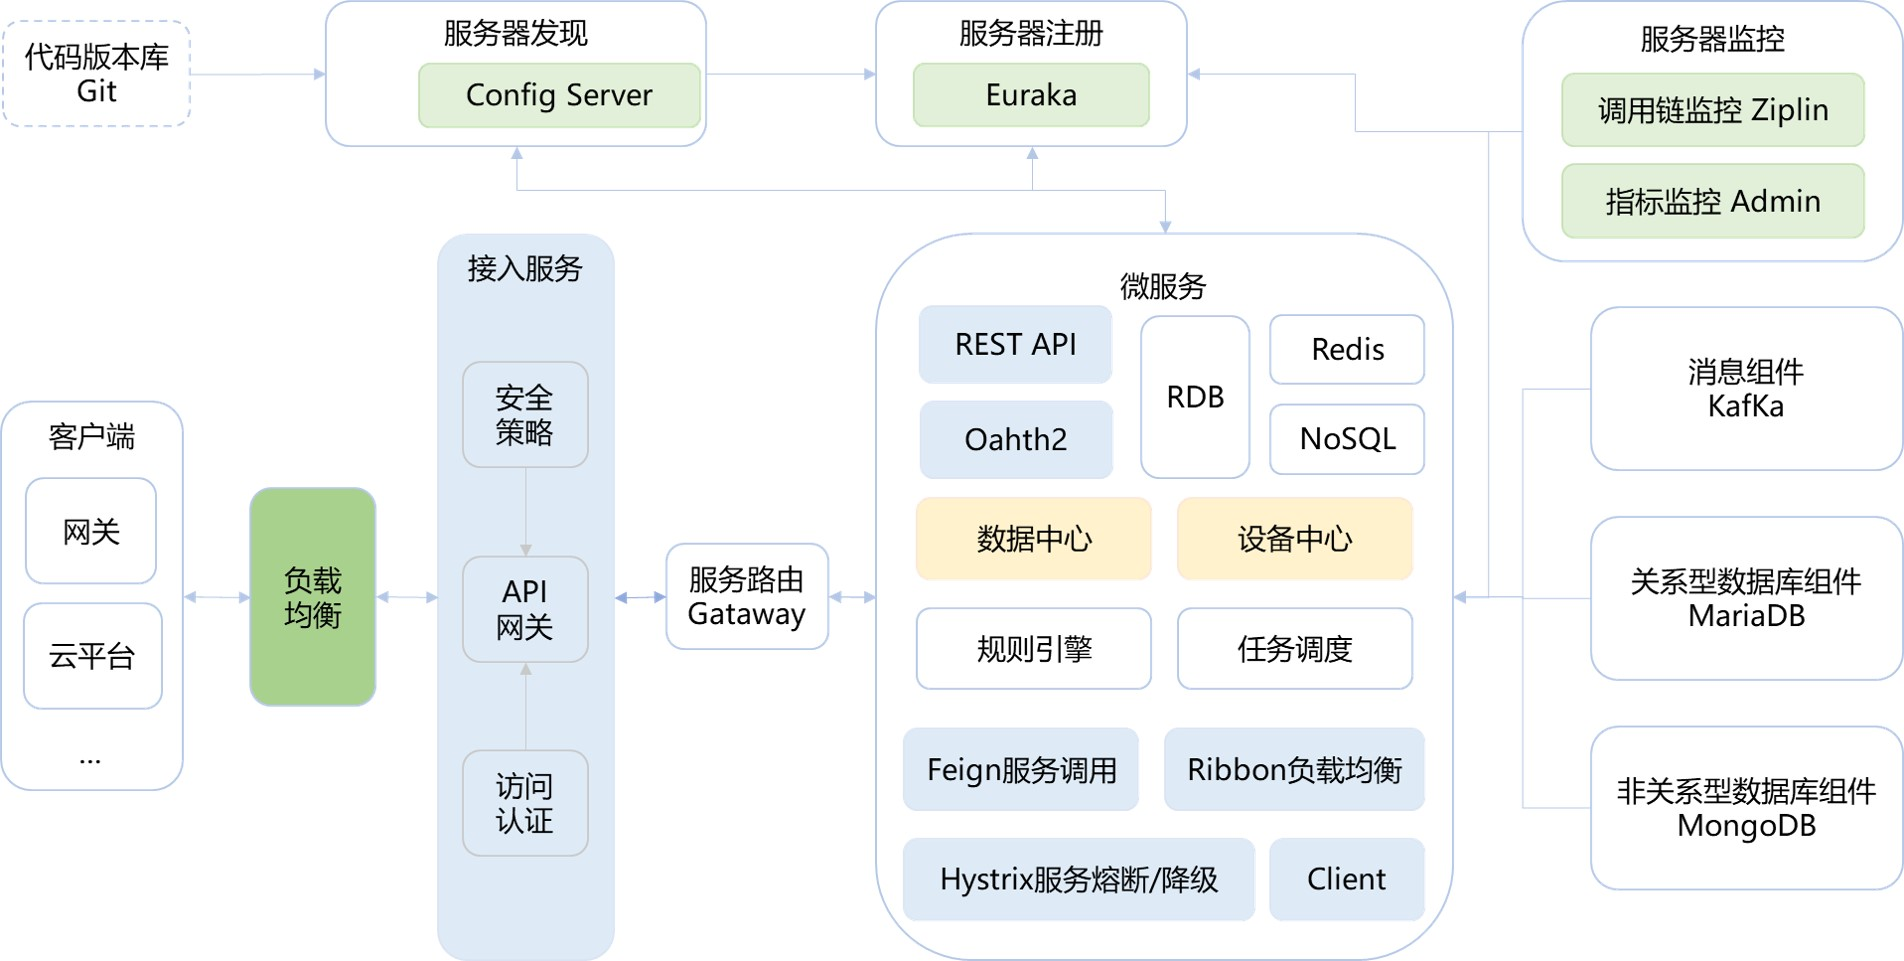
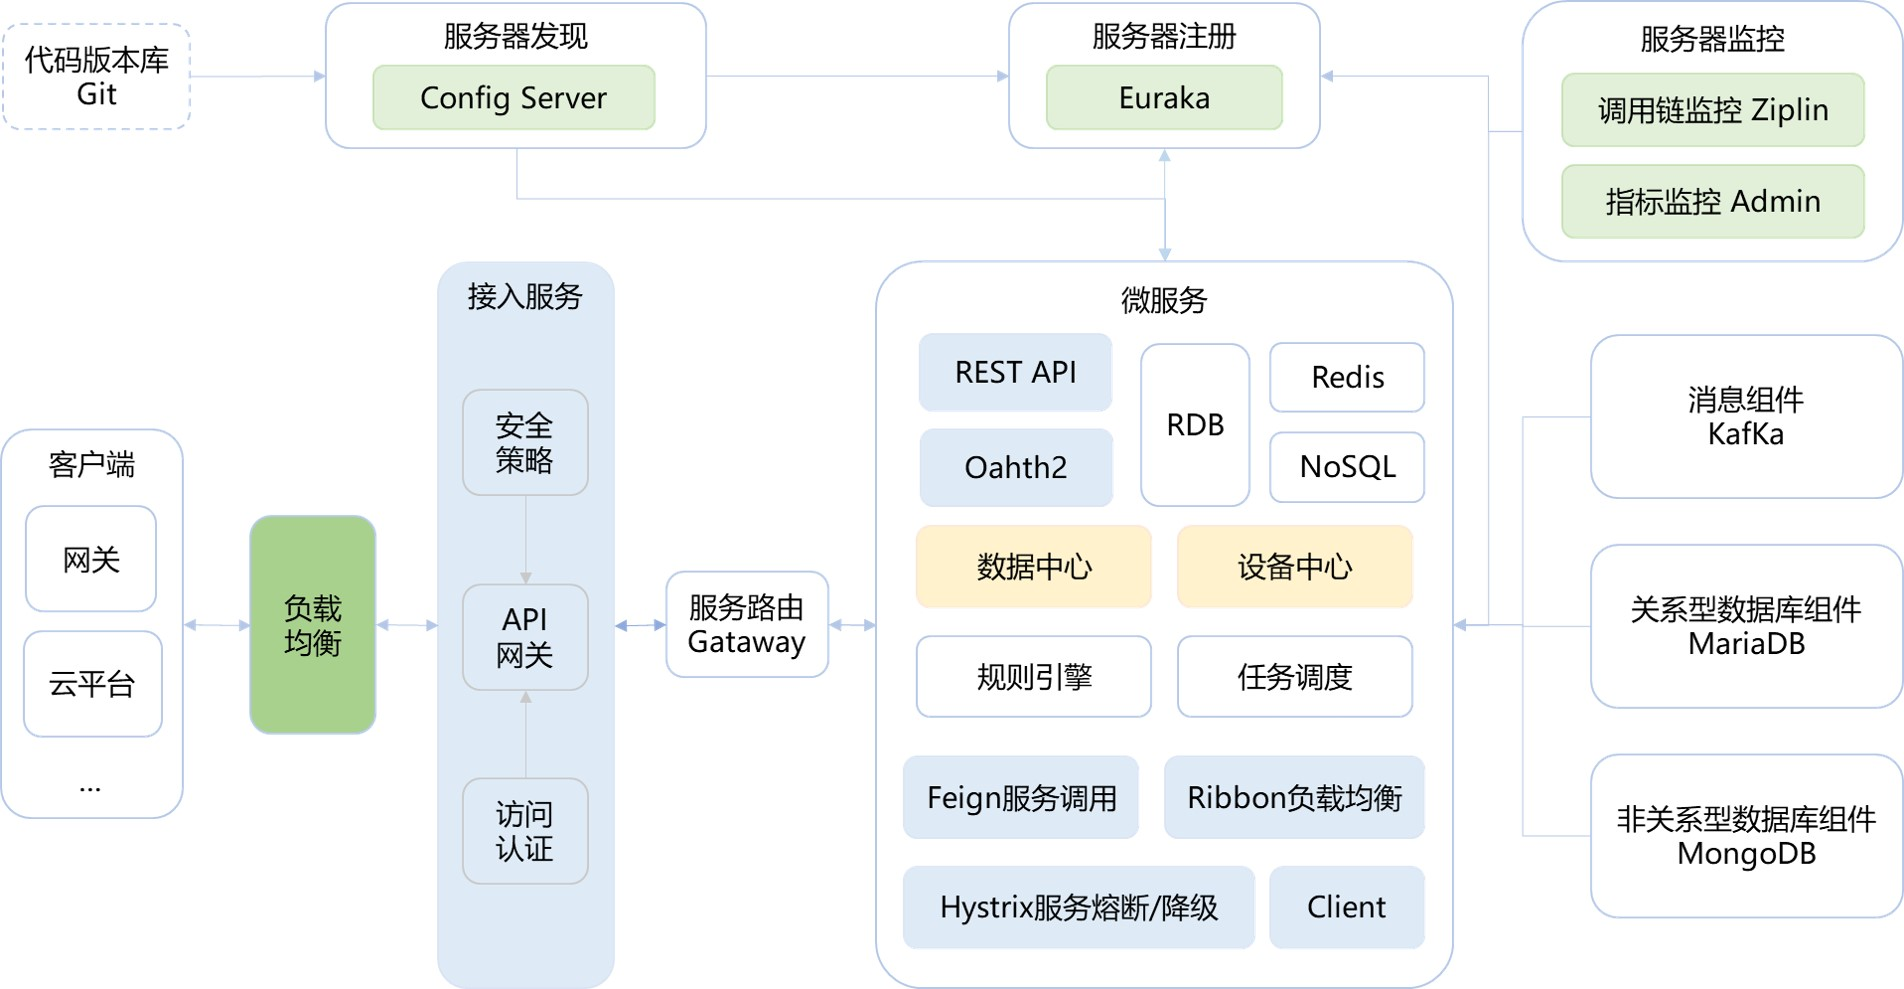
build(compose): refactor docker-compose networking and add mariadb Dockerfile

diff --git a/dc3-common/src/test/java/com/pnoker/common/TestEncrypt.java b/dc3-common/src/test/java/com/pnoker/common/TestEncrypt.java
@@ -50,7 +50,7 @@ public class TestEncrypt {
         config.setAlgorithm("PBEWithMD5AndDES");          // 加密的算法，这个算法是默认的
         config.setPassword("M82tHF1EjfWpnXzG");                        // 加密的密钥
         standardPBEStringEncryptor.setConfig(config);
-        String plainText = "root";
+        String plainText = "iotdc3";
         String encryptedText = standardPBEStringEncryptor.encrypt(plainText);
         log.info("明文:{},密文:{}", plainText, encryptedText);
         String decryptedText = standardPBEStringEncryptor.decrypt(encryptedText);